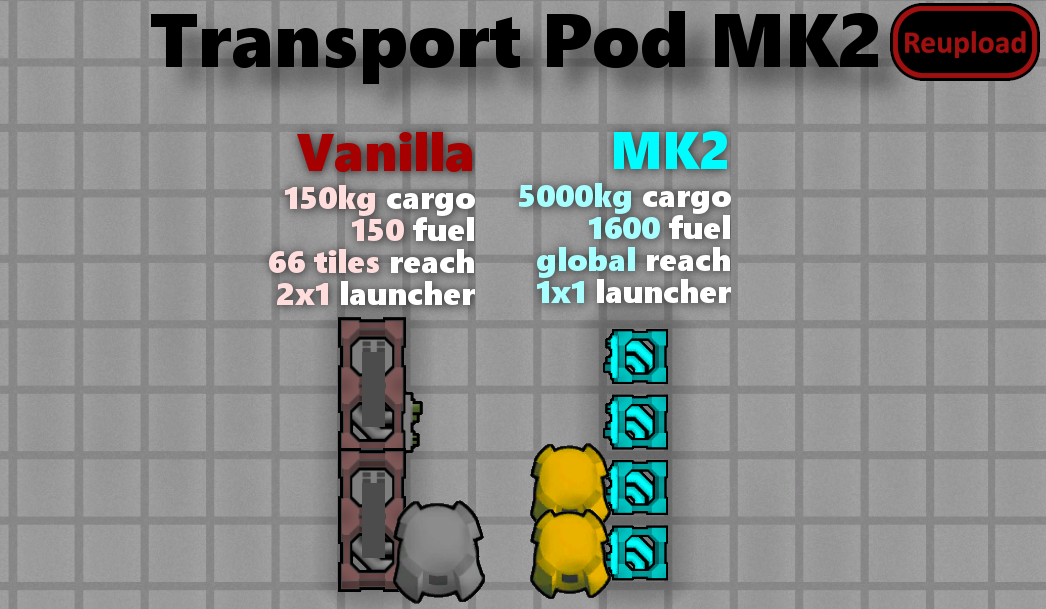
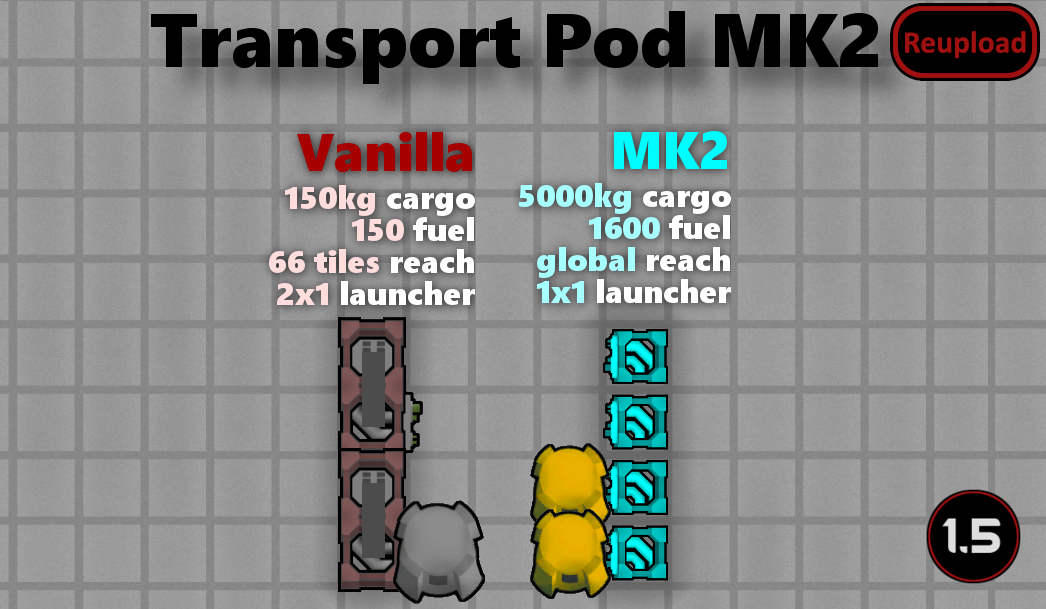
Mod updated for 1.5 and passed autotests

Changed region(s): [[0.8872, 0.78, 0.979, 0.9672]]

diff --git a/README.md b/README.md
@@ -43,11 +43,13 @@ Buildable floor area to determine where pods land in base.
 
 -  See if the the error persists if you just have this mod and its requirements active.
 -  If not, try adding your other mods until it happens again.
--  Post your error-log using https://steamcommunity.com/workshop/filedetails/?id=818773962]HugsLib and command Ctrl+F12
+-  Post your error-log using https://steamcommunity.com/workshop/filedetails/?id=818773962]HugsLib or the standalone https://steamcommunity.com/sharedfiles/filedetails/?id=2873415404]Uploader and command Ctrl+F12
 -  For best support, please use the Discord-channel for error-reporting.
 -  Do not report errors by making a discussion-thread, I get no notification of that.
 -  If you have the solution for a problem, please post it to the GitHub repository.
+-  Use https://github.com/RimSort/RimSort/releases/latest]RimSort to sort your mods
 
 
 
+https://steamcommunity.com/sharedfiles/filedetails/changelog/2064607975]![Image](https://img.shields.io/github/v/release/emipa606/TransportPodMK2?label=latest%20version&style=plastic&color=9f1111&labelColor=black)
 
